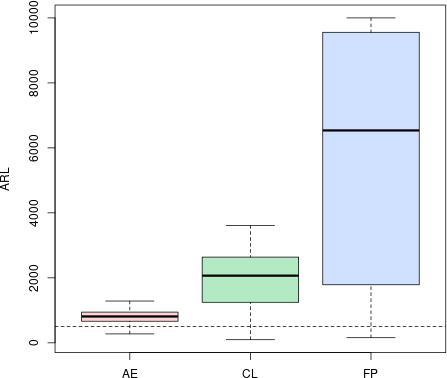
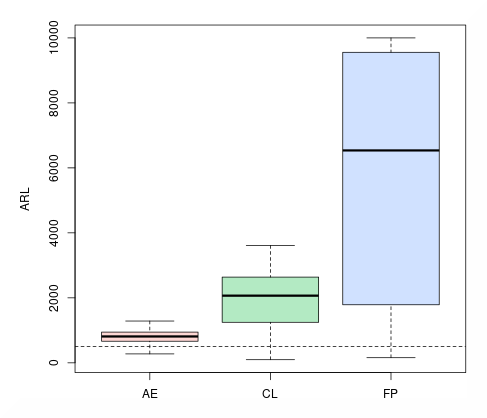
border and better images

diff --git a/_research/cautious-learning.md b/_research/cautious-learning.md
@@ -2,6 +2,15 @@
 title: "Cautious learning"
 layout: single-portfolio
 excerpt: "<img src='/images/research/cautious-learning/thetahat.png' >"
+gallery:
+  - url: research/cautious-learning/IC.png
+    image_path: research/cautious-learning/IC.png
+    alt: "In-control performance (CARL)"
+    title: "In-control performance (CARL)"
+  - url: research/cautious-learning/delta=0.35.png
+    image_path: research/cautious-learning/delta=0.35.png
+    alt: "Out-of-control performance (CARL)"
+    title: "Out-of-control performance (CARL)"
 description:
 collection: research
 status: Published (Quality Engineering)
@@ -43,8 +52,4 @@ $$
 
 Combining the proposed approach with the GICP methodology for designing control limits results in a considerably higher detection power for early and small shifts, while maintaining similar performance to the adaptive estimator for large and delayed shifts.
 
-| <img src="/images/research/cautious-learning/IC.png" alt="chart" width="350"/>| <img src="/images/research/cautious-learning/delta=0.35.png" alt="parameter" width="350"/>| 
-|:--:|:--:|
-| *In-control performance (CARL)* | *Out-of-control performance (CARL)*
-
-
+{% include gallery %}
